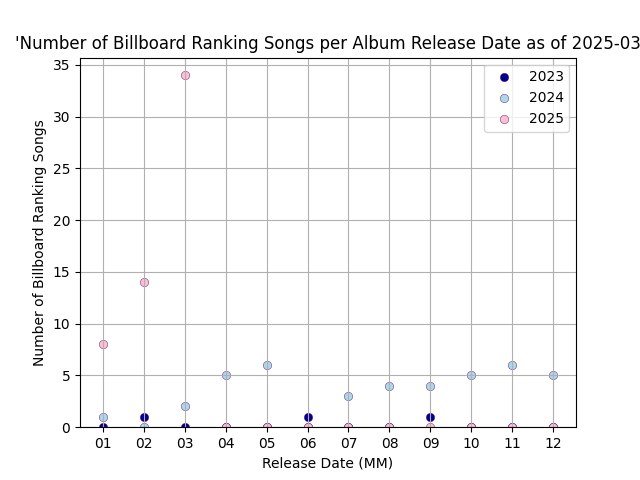
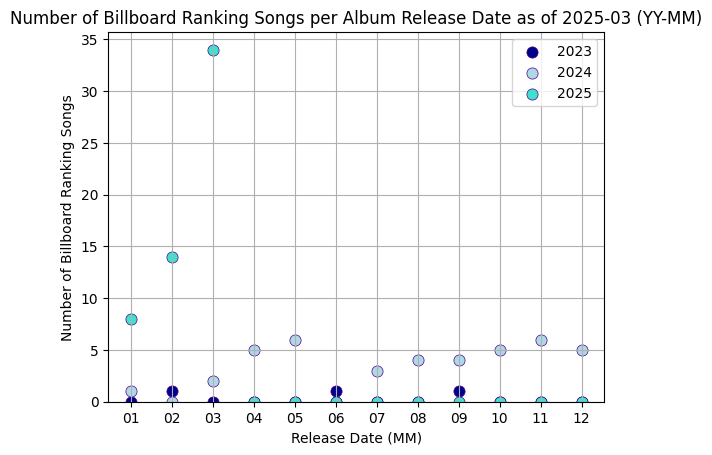
no more figure cutoff

diff --git a/visuals.py b/visuals.py
@@ -63,7 +63,7 @@ def graph_scatter_rank_vs_popularity(cur):
     ax.grid()
 
     # save the graph
-    fig.savefig("rank_vs_popularity.png")
+    fig.savefig("rank_vs_popularity.png", bbox_inches='tight')
 
     # show the graph
     plt.show()
@@ -128,11 +128,12 @@ def graph_scatter_album_release_vs_rank(cur):
     ### make plot
     # create the graph
     fig, ax = plt.subplots()
-    colors = ['darkblue', 'lightblue', 'pink', 'aqua', 'lightgray']
+
+    colors = ['darkblue', 'lightblue', 'turquoise', 'pink', 'lightgray']
     c = -1
     for year, months in years.items():
         c += 1
-        ax.scatter(monthMarks, months, facecolors=colors[c], edgecolors='indigo', linewidths=0.3, label=year)
+        ax.scatter(monthMarks, months, s=65, facecolors=colors[c], edgecolors='indigo', linewidths=0.5, label=year)
     
     # start at origin
     ax.set_ylim(bottom=0)
@@ -141,11 +142,11 @@ def graph_scatter_album_release_vs_rank(cur):
     ax.set_xlabel('Release Date (MM)')
     ax.set_ylabel('Number of Billboard Ranking Songs')
     ax.legend()
-    ax.set_title(f"'Number of Billboard Ranking Songs per Album Release Date as of {prevYear}-{monthMarks[prevMonth]}")
+    ax.set_title(f"Number of Billboard Ranking Songs per Album Release Date as of {prevYear}-{monthMarks[prevMonth]} (YY-MM)")
     ax.grid()
 
     # save the graph
-    fig.savefig("albumRelease_vs_rank.png")
+    fig.savefig("albumRelease_vs_rank.png", bbox_inches='tight')
 
     # show the graph
     plt.show()    
@@ -195,7 +196,7 @@ def graph__bar_top_artists_by_song_count(cur):
     ax.grid()
 
     # save the graph
-    fig.savefig("top_artists_by_song.png")
+    fig.savefig("top_artists_by_song.png", bbox_inches='tight')
 
     # show the graph
     plt.show()    
@@ -252,7 +253,7 @@ def graph_pie_artist_popularity_sum(cur):
     plt.axis('equal')
 
     # save the graph
-    fig.savefig("artists_by_popularity.png")
+    fig.savefig("artists_by_popularity.png", bbox_inches='tight')
 
     # show the graph
     plt.show()    
@@ -260,8 +261,8 @@ def graph_pie_artist_popularity_sum(cur):
 # make all visuals
 if __name__ == "__main__":
     cur, conn = connect_to_music_data()
-    # graph_scatter_rank_vs_popularity(cur)
-    graph_scatter_album_release_vs_rank(cur) ## TODO -- complete labeling
-    # graph__bar_top_artists_by_song_count(cur)
-    # graph_pie_artist_popularity_sum(cur)
+    graph_scatter_rank_vs_popularity(cur)
+    graph_scatter_album_release_vs_rank(cur)
+    graph__bar_top_artists_by_song_count(cur)
+    graph_pie_artist_popularity_sum(cur)
     conn.close()
